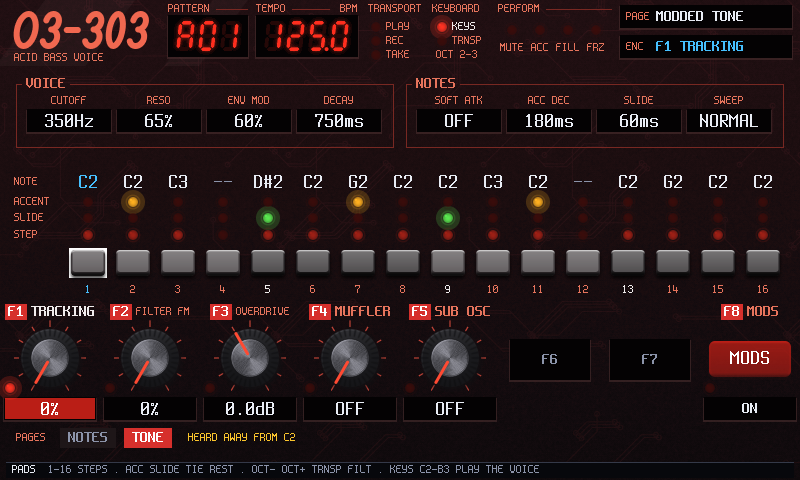
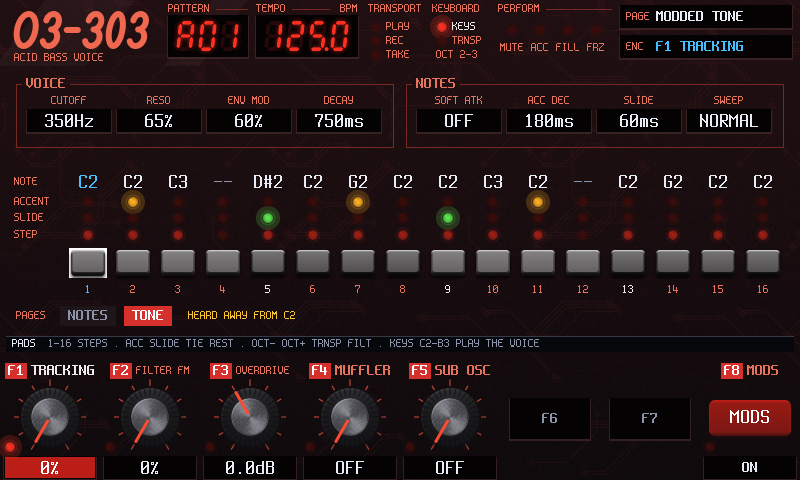
fix(skin): INSTRUMENT's knobs end at the bottom of the screen, next to the F keys
B5b left the PAGES row and the PADS line under the knobs on VOICE, FX, MODDED, GROWL and WOBBLE. They now sit above them, and each knob's readout is on the F row's line, as on HOME (the maintainer, on the unit).

Host: 76 of 76 without midi_check_selftest, which then ran alone. The manual's seven pictures of these screens are regenerated.

Unit check owed: the layout on all five screens, and a screen by eye.

diff --git a/tests/skin_instrument_test.cpp b/tests/skin_instrument_test.cpp
@@ -29,10 +29,10 @@ using namespace o3_303;
 
 namespace {
 
-constexpr int kTabsY = 428;         // the page tabs' row (skin/instrument.cpp kTabY)
-constexpr int kLabelY = 304;         // the label line of a knob slot: its tab is a round rect at this y
-constexpr int kReadoutFaceY = 397;  // a readout window's face, one px above the window (y 164)
-constexpr int kEmptyFaceY = 339;    // a blank slot's well face, one px above the well (y 106)
+constexpr int kTabsY = 306;         // the page tabs' row (skin/instrument.cpp kTabY)
+constexpr int kLabelY = 363;         // the label line of a knob slot: its tab is a round rect at this y
+constexpr int kReadoutFaceY = 456;  // a readout window's face, one px above the window (y 457)
+constexpr int kEmptyFaceY = 398;    // a blank slot's well face, one px above the well (y 399)
 constexpr int kTaglineX = 14;    // the brand's line under the wordmark (skin/header.cpp)
 constexpr int kTaglineY = 52;
 
@@ -424,10 +424,10 @@ TEST_CASE("skin instrument: a blank slot is an empty well with its F number, and
     unsigned leds = 0;
     for (unsigned i = 0; i < o.q().shapes(); ++i) {
       skin::Panel::SpriteInfo sp;
-      leds += o.q().sprite_at(i, sp) && sp.layer == skin::Layer::Led && sp.y == 380 ? 1u : 0u;  // the latch LEDs' row (the strip's are lower)
+      leds += o.q().sprite_at(i, sp) && sp.layer == skin::Layer::Led && sp.y == 439 ? 1u : 0u;  // the latch LEDs' row (the strip's are lower)
     }
     CHECK(wells == expect.count);
-    CHECK(o.texts_in(352, 353, ui::Color::TextDim) == expect.count);  // each well's "Fn", centred in it
+    CHECK(o.texts_in(411, 412, ui::Color::TextDim) == expect.count);  // each well's "Fn", centred in it
     CHECK(labels == 8u - expect.count);
     CHECK(readouts == 8u - expect.count);
     CHECK(leds == 8u - expect.count);
@@ -436,13 +436,13 @@ TEST_CASE("skin instrument: a blank slot is an empty well with its F number, and
 }
 
 TEST_CASE("skin instrument: the ON under a lit key is read at full strength, the OFF under a dark one is quiet") {
-  // The hint window of F8 (x 700..800, y 398..420): its text's colour.
+  // The hint window of F8 (x 700..800, y 457..479): its text's colour.
   const auto hint = [](const OnInstrument& o) {
     unsigned n = 0;
     ui::Color c = ui::Color::Empty;
     for (unsigned i = 0; i < o.q().texts(); ++i) {
       skin::Panel::TextInfo tx;
-      if (o.q().text_at(i, tx) && tx.x >= 700 && tx.y >= 398 && tx.y < 420) {
+      if (o.q().text_at(i, tx) && tx.x >= 700 && tx.y >= 457 && tx.y < 479) {
         c = tx.color;
         ++n;
       }
@@ -596,7 +596,7 @@ TEST_CASE("skin instrument: a held step shows its lock in the readout, in the ac
   unsigned accent = 0;
   for (unsigned i = 0; i < o.q().texts(); ++i) {
     skin::Panel::TextInfo tx;
-    if (o.q().text_at(i, tx) && tx.color == ui::Color::Accent && tx.y >= 398 && tx.y < 424) {
+    if (o.q().text_at(i, tx) && tx.color == ui::Color::Accent && tx.y >= 457 && tx.y < 480) {
       ++accent;
     }
   }
@@ -623,8 +623,8 @@ TEST_CASE("skin instrument: Shift relabels the knobs LEARN or '-' and the F-numb
   }
   CHECK(can + no == static_cast<unsigned>(view::kKnobs));
   CHECK(can > 0u);
-  CHECK(o.texts_in(304, 320, ui::Color::ChromeText) == can);  // LEARN: bright; "-": dim
-  CHECK(o.texts_in(304, 320, ui::Color::TextDim) == no);
+  CHECK(o.texts_in(363, 379, ui::Color::ChromeText) == can);  // LEARN: bright; "-": dim
+  CHECK(o.texts_in(363, 379, ui::Color::TextDim) == no);
   CHECK(no >= before);
   // The knobs and their readouts are still there, as with Shift up.
   CHECK(o.sprites(skin::Layer::KnobCap, skin_assets::Id::Knob58Cap) > 0u);
@@ -657,7 +657,7 @@ TEST_CASE("skin instrument: LEARN waits in the accent colour on the knob that is
   const skin::Panel& q = skin::panel();
   for (unsigned i = 0; i < q.texts(); ++i) {
     skin::Panel::TextInfo tx;
-    accent_label += (q.text_at(i, tx) && tx.y >= 304 && tx.y < 320 && tx.color == ui::Color::Accent) ? 1u : 0u;
+    accent_label += (q.text_at(i, tx) && tx.y >= 363 && tx.y < 379 && tx.color == ui::Color::Accent) ? 1u : 0u;
   }
   CHECK(accent_label == 1u);
   CHECK(q.dropped() == 0u);

diff --git a/app/src/skin/instrument.cpp b/app/src/skin/instrument.cpp
@@ -24,16 +24,16 @@ using skin_assets::Id;
 constexpr int char_w(Face f) noexcept { return f == Face::Data ? 10 : (f == Face::Label ? 8 : 6); }
 int len_of(const char* s) noexcept { return static_cast<int>(std::strlen(s)); }
 
-// The knobs (docs/SKIN-PLAN.md 2.4): eight slots of 100 px at the bottom of the screen, above the tabs (they were under the header until B5b), the same grid as the F row's. A slot's label line is the top 16 px, the knob58 (76 px) the middle, the readout
+// The knobs (docs/SKIN-PLAN.md 2.4): eight slots of 100 px at the very bottom of the screen, nothing between them and the F keys, the same grid as the F row's (the tabs and the PADS line sit above them). A slot's label line is the top 16 px, the knob58 (76 px) the middle, the readout
 // window under it, the latch LED left of the knob and under its label.
-constexpr int kLabelY = 304;  // the knobs hang at the bottom of the screen, above the tabs: next to the F keys (BACKLOG 2)
-constexpr int kKnobCy = 358;
+constexpr int kLabelY = 363;  // the knobs end at the bottom of the screen, next to the F keys (BACKLOG 2): the readout is on the F row's line
+constexpr int kKnobCy = 417;
 constexpr int kLedDx = -40;
-constexpr int kLedCy = 388;
-constexpr int kReadoutY = 398;
+constexpr int kLedCy = 447;
+constexpr int kReadoutY = 457;
 constexpr int kReadoutW = 92;
 constexpr int kEmptyW = 80;
-constexpr int kEmptyY = 340;
+constexpr int kEmptyY = 399;
 constexpr int kEmptyH = 40;
 constexpr unsigned kNameMax = 12;                       // a name of up to twelve 6x12 characters fits the slot beside its tab
 constexpr unsigned kPointerW_q4 = 24;                   // knob58's pointer: 3 px across
@@ -61,9 +61,9 @@ constexpr int kLedY[3] = {202, 218, 235};
 constexpr int kKeyY = 246;
 constexpr int kNumberY = 284;
 constexpr int kCaptionX = 14;
-constexpr int kTabY = 428;
+constexpr int kTabY = 306;
 constexpr int kTabH = 20;
-constexpr int kPadsY = ui::kScreenH - frame::kPadsLineH - 2;  // the PADS line: the screen's last 16 px
+constexpr int kPadsY = 336;  // the PADS line: under the tabs, above the knobs
 
 constexpr ui::Rgb kKeyB{36, 32, 34};     // the second tint of the keys (the first is pal::kKey)
 constexpr ui::Rgb kLedDimRed{158, 31, 21};  // 0.62 of the STEP LED's red: a step that holds a note

diff --git a/docs/BACKLOG.md b/docs/BACKLOG.md
@@ -72,6 +72,7 @@ The image: o3-303 v0.1.0 (2fbb6de) on o3-sdk bbe7b83, installed over the USB con
      - one of MASTER's free keys (F2, F3, F6 to F8).
    - The keyboard's lights (item 6) and the generator use the root.
 2. **INSTRUMENT's knobs beside the F keys.** "On instrument page, can you put the Cutoff etc controls down, next to the f-keys."
+   - 2026-11-06, the maintainer on the unit: B5b left the PAGES row and the PADS line under the knobs. "Los controles y los knobs siempre al lado de las teclas de F-keys." Both now sit above the knobs on all five screens, and each knob's value window stays under it, as on HOME.
    - Today: on INSTRUMENT VOICE the eight knobs are at the top, under the header. The DISTORTION, DELAY and MODDED boxes come next, then the 16 steps at the bottom (manual picture `instrument-voice.png`).
    - Asked: the knob row at the bottom, next to the F keys, as HOME's F row is. The same question applies to FX, MODDED, GROWL and WOBBLE, which use the same drawing.
 3. **Up and Down on an empty step.** "in instrument view let me change empty notes with the key up down, as if it were a note."
